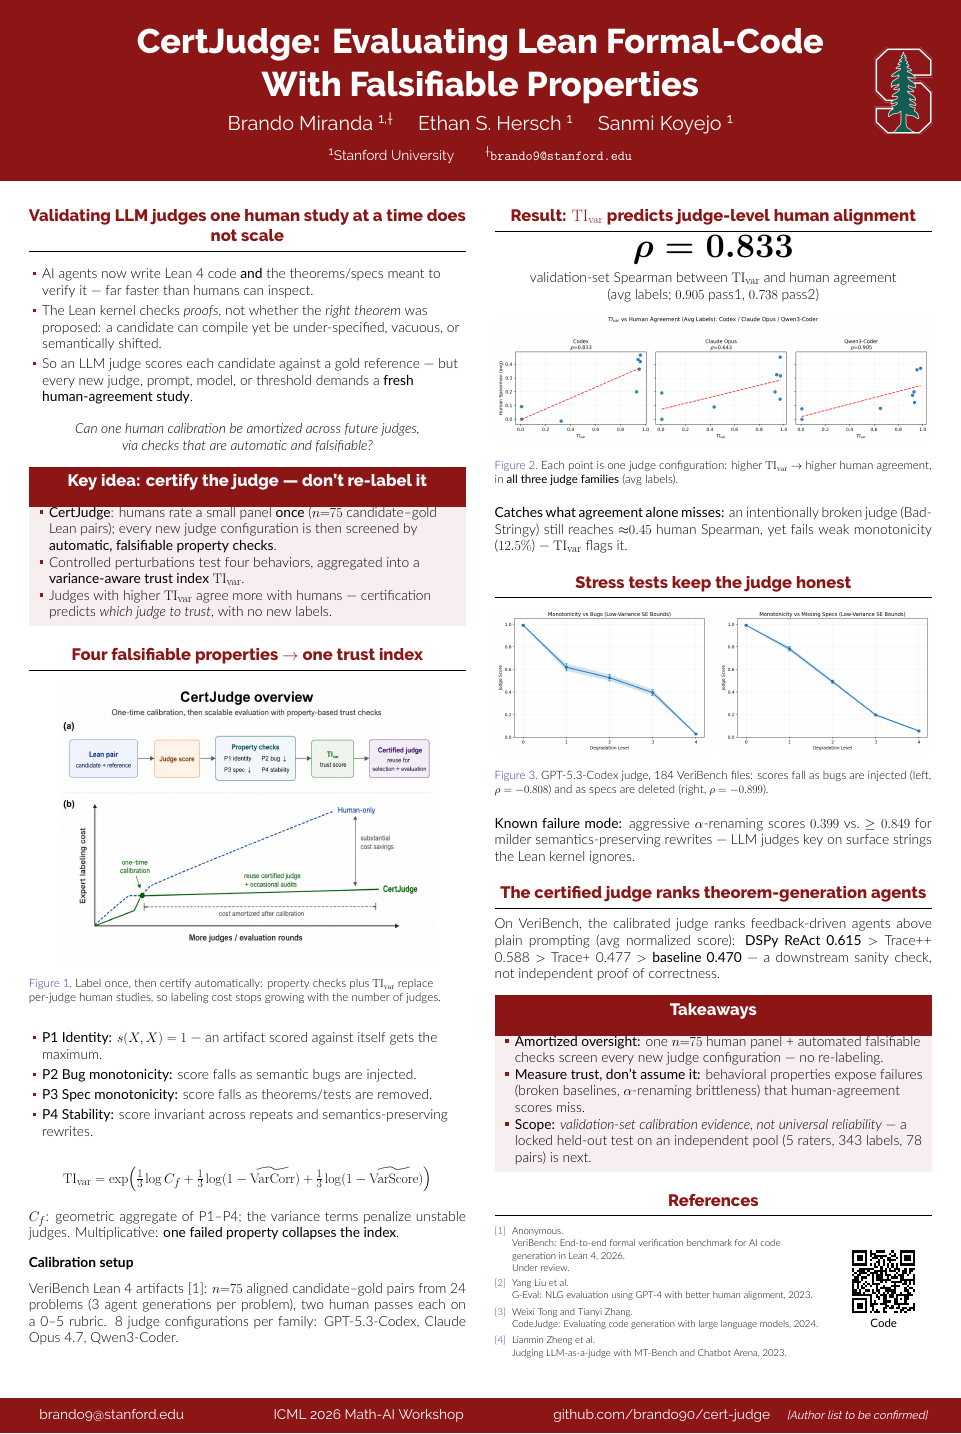
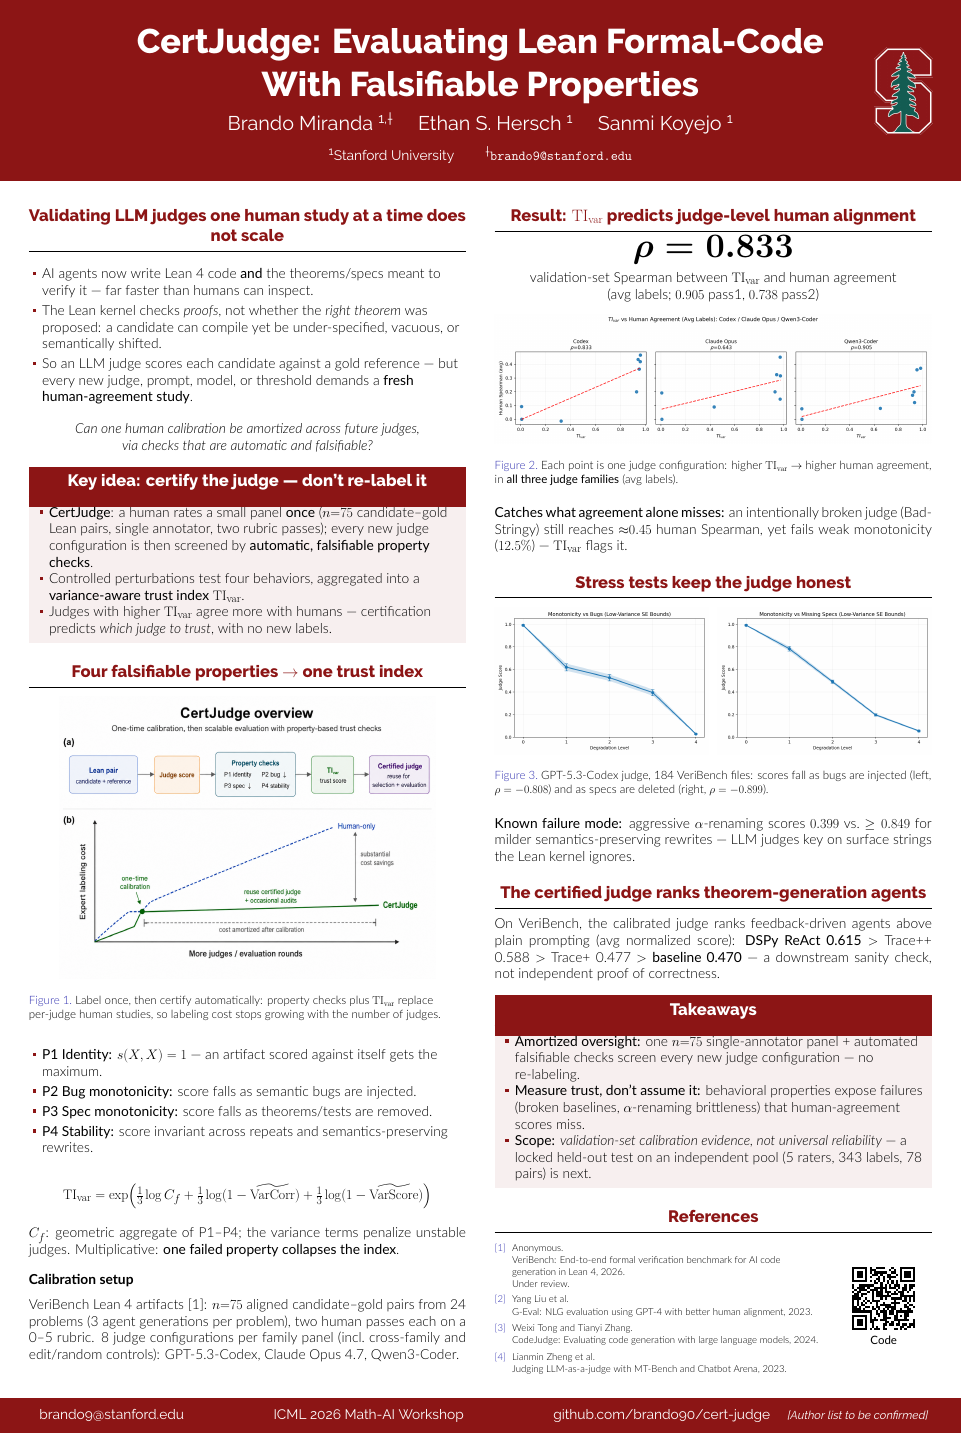
Mega-QA stage 2 fixes: single-annotator wording, judge-config controls note, workshop-name TODO
Claude-Session: https://claude.ai/code/session_01BparsqK5N6XQxeNoUfoULD

Changed region(s): [[0.0312, 0.3375, 0.4995, 0.9512], [0.5307, 0.7057, 0.9677, 0.9512], [0.8741, 0.8591, 0.9677, 0.9512]]

diff --git a/paper_latex/ICML_2026_AI4Math_poster/main.tex b/paper_latex/ICML_2026_AI4Math_poster/main.tex
@@ -54,7 +54,7 @@
 
 \footercontent{
   \href{mailto:brando9@stanford.edu}{brando9@stanford.edu} \hfill
-  ICML 2026 Math-AI Workshop \hfill
+  ICML 2026 Math-AI Workshop \hfill % TODO: confirm official workshop name (Math-AI vs AI4Math) before printing
   \href{https://github.com/brando90/cert-judge}{github.com/brando90/cert-judge}
   \quad {\small\emph{[Author list to be confirmed]}}}
 
@@ -97,7 +97,7 @@
   \begin{alertblock}{Key idea: certify the judge --- don't re-label it}
 
     \begin{itemize}
-      \item \textbf{CertJudge}: humans rate a small panel \textbf{once} ($n{=}75$ candidate--gold Lean pairs); every new judge configuration is then screened by \textbf{automatic, falsifiable property checks}.
+      \item \textbf{CertJudge}: a human rates a small panel \textbf{once} ($n{=}75$ candidate--gold Lean pairs, single annotator, two rubric passes); every new judge configuration is then screened by \textbf{automatic, falsifiable property checks}.
       \item Controlled perturbations test four behaviors, aggregated into a \textbf{variance-aware trust index} \tivar.
       \item Judges with higher \tivar{} agree more with humans --- certification predicts \emph{which judge to trust}, with no new labels.
     \end{itemize}
@@ -131,7 +131,7 @@
     $C_f$: geometric aggregate of P1--P4; the variance terms penalize unstable judges. Multiplicative: \textbf{one failed property collapses the index}.
 
     \heading{Calibration setup}
-    \textsc{VeriBench} Lean~4 artifacts \cite{anonymous2026veribench}: $n{=}75$ aligned candidate--gold pairs from 24 problems (3 agent generations per problem), two human passes each on a 0--5 rubric. 8 judge configurations per family: GPT-5.3-Codex, Claude Opus 4.7, Qwen3-Coder.
+    \textsc{VeriBench} Lean~4 artifacts \cite{anonymous2026veribench}: $n{=}75$ aligned candidate--gold pairs from 24 problems (3 agent generations per problem), two human passes each on a 0--5 rubric. 8 judge configurations per family panel (incl.\ cross-family and edit/random controls): GPT-5.3-Codex, Claude Opus 4.7, Qwen3-Coder.
 
   \end{block}
 
@@ -188,7 +188,7 @@
   \begin{alertblock}{Takeaways}
 
     \begin{itemize}
-      \item \textbf{Amortized oversight:} one $n{=}75$ human panel + automated falsifiable checks screen every new judge configuration --- no re-labeling.
+      \item \textbf{Amortized oversight:} one $n{=}75$ single-annotator panel + automated falsifiable checks screen every new judge configuration --- no re-labeling.
       \item \textbf{Measure trust, don't assume it:} behavioral properties expose failures (broken baselines, $\alpha$-renaming brittleness) that human-agreement scores miss.
       \item \textbf{Scope:} \emph{validation-set calibration evidence, not universal reliability} --- a locked held-out test on an independent pool (5 raters, 343 labels, 78 pairs) is next.
     \end{itemize}
